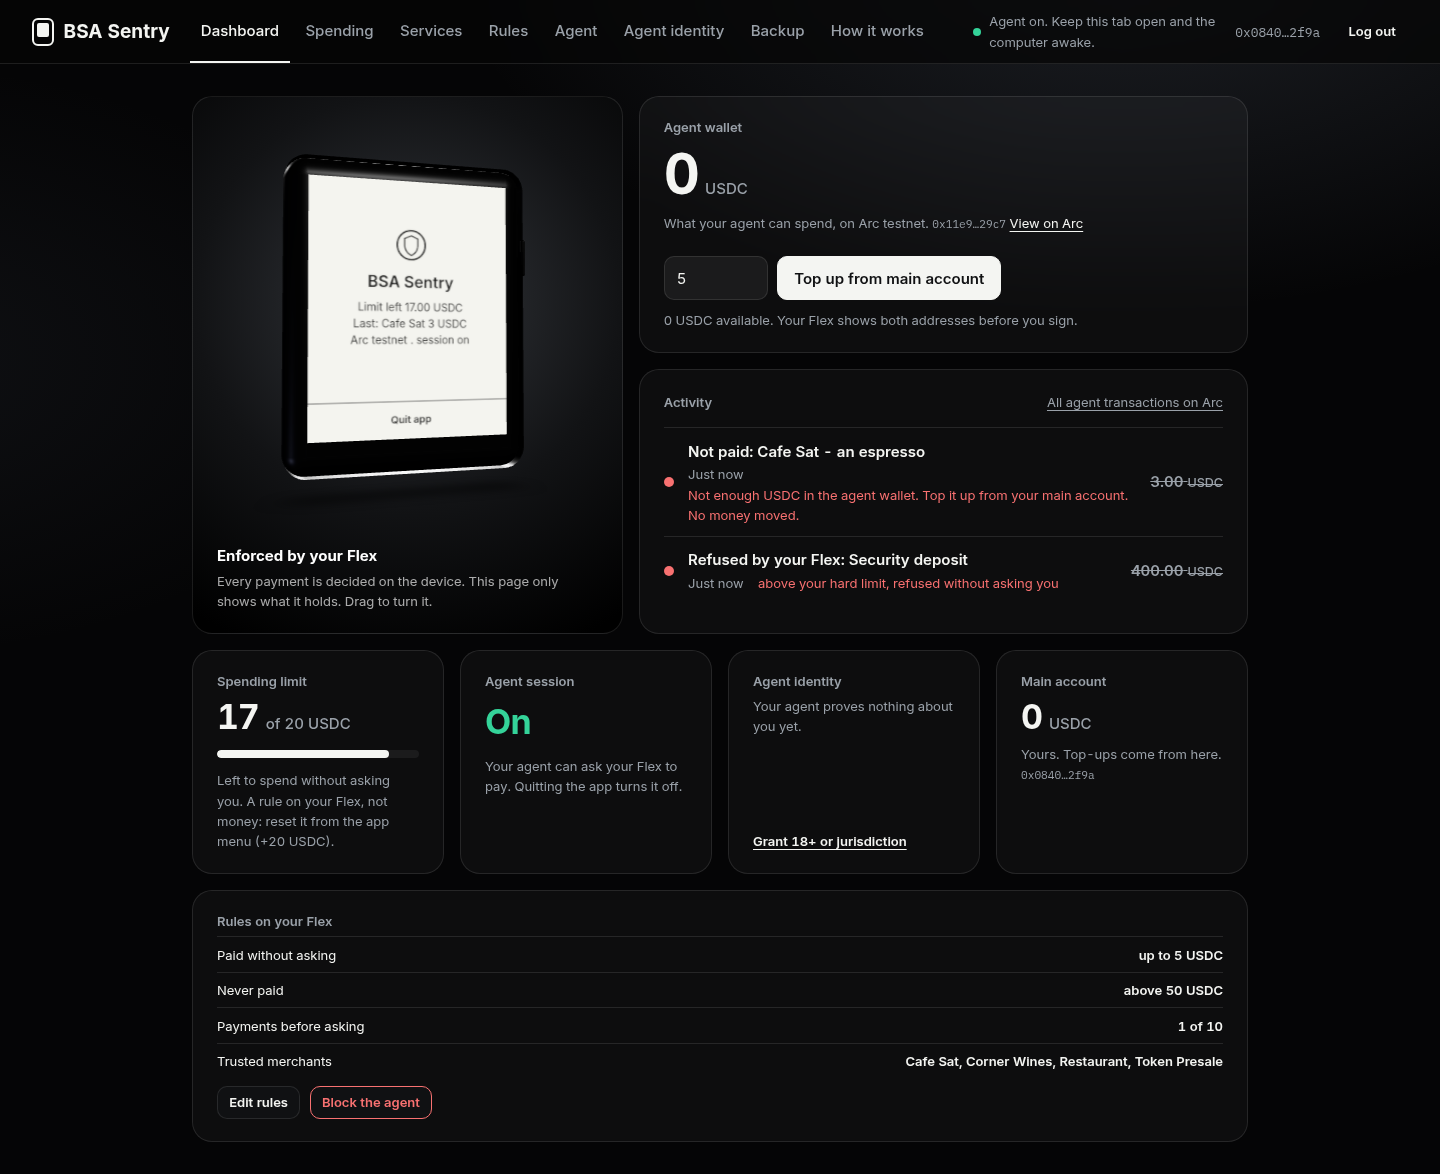
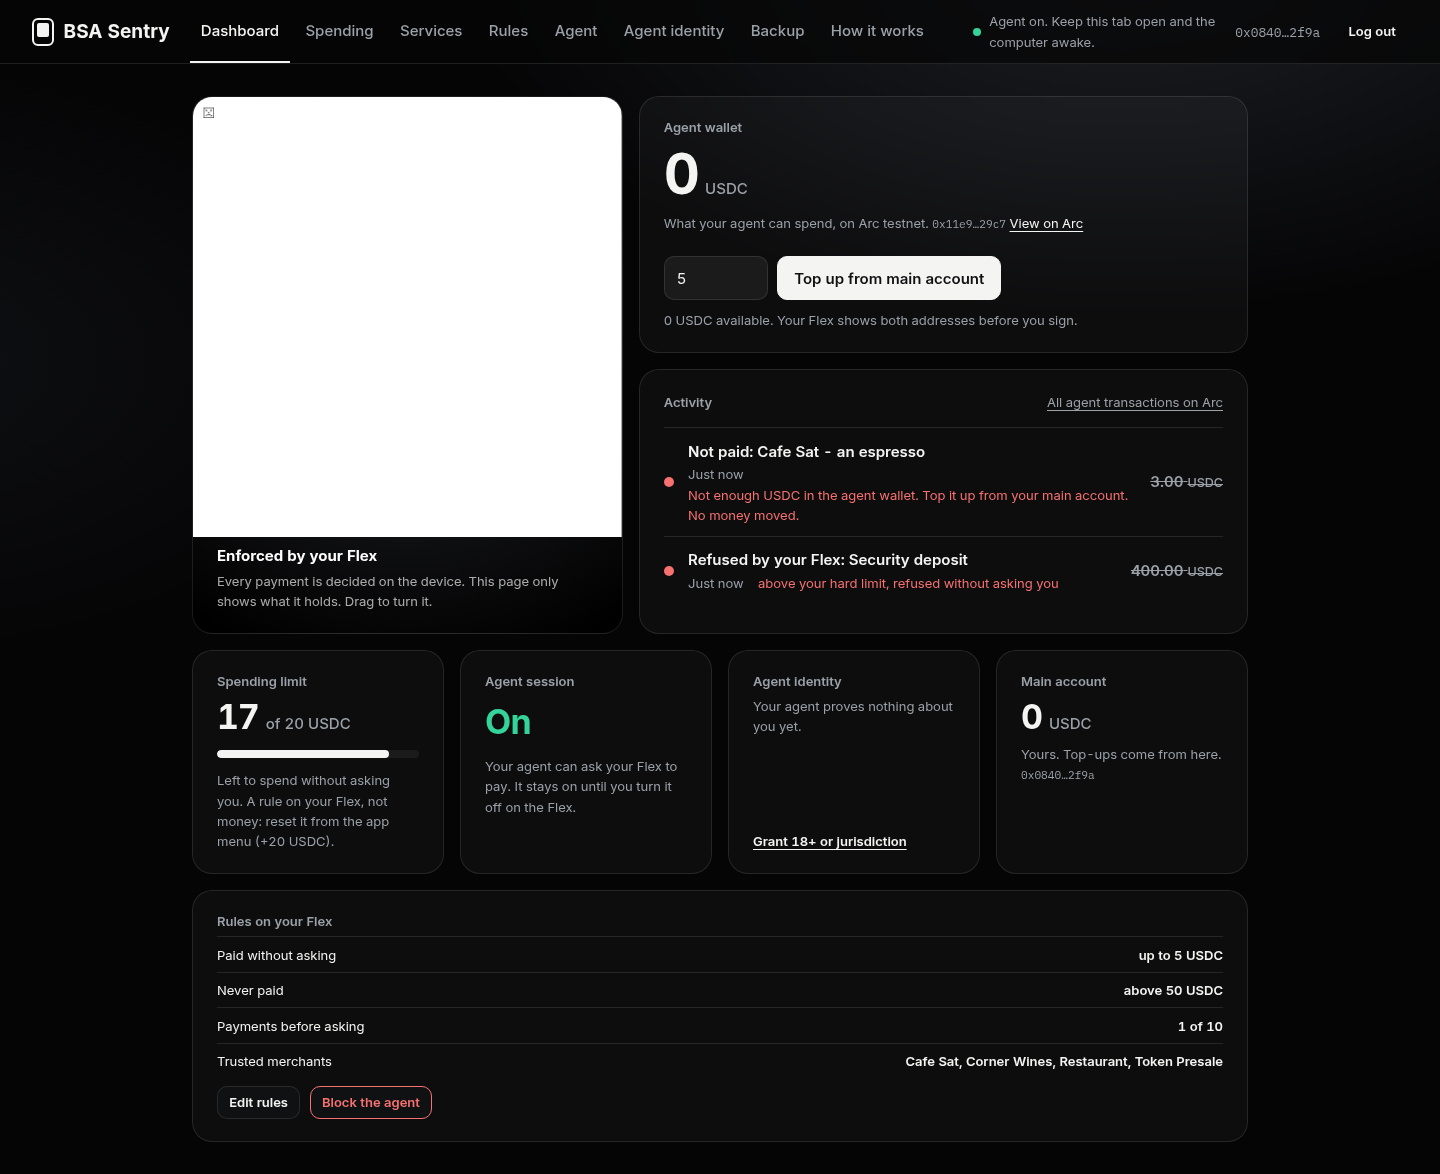
device: the agent session switch is saved on the Flex and stays on until turned off there; blocking the agent turns it off

Changed region(s): [[0.125, 0.0613, 0.4375, 0.46], [0.375, 0.644, 0.4688, 0.6746], [0.3438, 0.6746, 0.375, 0.7053]]

diff --git a/test/speculos/menu.test.ts b/test/speculos/menu.test.ts
@@ -122,7 +122,8 @@ describe('the menu', () => {
     expect(s.policy.active, 'the rules themselves are untouched').toBe(true);
   });
 
-  it('blocks the agent from the device itself: rules and merchants wiped after a confirmation', async () => {
+  it('blocks the agent from the device itself: rules and merchants wiped, session off, after a confirmation', async () => {
+    await setSession(true);
     await openMenuPage(/Block agent/);
     await screenshot('19-menu-actions');
     await tapText(/Block agent/);
@@ -133,19 +134,21 @@ describe('the menu', () => {
     const s = await state();
     expect(s.policy.active).toBe(false);
     expect(s.policy.payees).toEqual([]);
+    expect(s.sessionArmed, 'blocking the agent also ends its session').toBe(false);
     // And payments are refused from now on.
     const data = payPayload({ chainId: 5042002n, token: TOKEN, to: CAFE, value: USDC, nonce: `0x${'73'.repeat(32)}` });
     const r = await apdu(Uint8Array.from([0xe0, INS.PAY, 0, 0, data.length, ...data]));
     expect(r.sw).toBe(SW.DENY);
   });
 
-  it('the agent session switch still arms and disarms, RAM only', async () => {
+  it('the agent session switch arms and disarms from the device', async () => {
     await setSession(true);
     expect((await state()).sessionArmed).toBe(true);
-    // Speculos cannot keep a Rust app's NVM across a restart ("not yet implemented for Rust
-    // apps"), so that the rules survive is checked on the Flex in Phase C, not here.
-    restart(false);
-    expect((await state()).sessionArmed, 'a restart always disarms').toBe(false);
+    await setSession(false);
+    expect((await state()).sessionArmed).toBe(false);
+    // The switch is saved in NVM, so it survives quitting the app. Speculos cannot keep a Rust
+    // app's NVM across a restart ("not yet implemented for Rust apps"), so that part is checked
+    // on the Flex (docs/PHASE_C_GUIDE.md), like the rules surviving a restart.
   });
 });
 

diff --git a/docs/architecture.html b/docs/architecture.html
@@ -233,7 +233,7 @@ td.k{font-weight:600;white-space:nowrap}
 
 <div class="c dev"><h3>Flex app <small>device-app/app, device-app/core</small></h3><dl>
 <dt>Does</dt><dd>Runs <code>decide()</code> on every payment, shows every review, makes every signature.</dd>
-<dt>Holds</dt><dd>0xMAIN and 0xAGENT, never exported. NVM: rules, counters, last payment, credentials. RAM only: the agent session.</dd>
+<dt>Holds</dt><dd>0xMAIN and 0xAGENT, never exported. NVM: rules, counters, last payment, credentials, the agent session switch.</dd>
 <dt>Refuses</dt><dd>Host-supplied hashes (it rebuilds each EIP-712 digest from raw fields), delegations to a foreign agent, bundles its own 0xMAIN did not sign.</dd>
 <dt>Talks to</dt><dd>The website: APDU over WebHID, one command at a time. <code>core</code> is the pure <code>no_std</code> logic, tested on the host.</dd>
 </dl></div>
@@ -437,7 +437,7 @@ td.k{font-weight:600;white-space:nowrap}
 <text class="l" x="650" y="260" text-anchor="start">4 session on, budget left</text>
 </svg></div>
 <ol class="steps">
-<li><b>On the Flex only.</b> Settings, "Agent session" on. No APDU arms it (shipped build). It lives in RAM: a restart, crash or app switch disarms it.</li>
+<li><b>On the Flex only.</b> Settings, "Agent session" on. No APDU arms it (shipped build). It is saved on the device and stays on across app restarts until you turn it off there; blocking the agent turns it off too.</li>
 <li><b>Read back.</b> <code>sentry_status</code> makes the relay ask the tab for a fresh <code>GET_STATE</code>.</li>
 <li><b>Report.</b> The tab sends the session flag and the state blob.</li>
 <li><b>Tell the agent.</b> Session, budget left, limits. Session off: every <code>PAY</code> is <code>NO_SESSION</code>.</li>

diff --git a/apps/web/src/pages/Session.tsx b/apps/web/src/pages/Session.tsx
@@ -5,7 +5,7 @@ export function Session({ bsa }: { bsa: Bsa }) {
   return (
     <section className="card">
       <h2>Start the agent on the Flex</h2>
-      <p>Only the Flex can start the agent: no website and no server can do it for you. Restarting the app stops it.</p>
+      <p>Only the Flex can start the agent: no website and no server can do it for you. It stays on until you turn it off on the Flex, or block the agent.</p>
       <ol className="steps-howto">
         <li>On the BSA Sentry home screen, tap the settings icon at the top right.</li>
         <li>Turn on <b>Agent session</b>.</li>

diff --git a/apps/web/src/pages/Dashboard.tsx b/apps/web/src/pages/Dashboard.tsx
@@ -148,7 +148,7 @@ export function Dashboard({ bsa }: { bsa: Bsa }) {
           <h2>Agent session</h2>
           <div className="session-state">{armed ? 'On' : 'Off'}</div>
           <p className="sub">{armed
-            ? 'Your agent can ask your Flex to pay. Quitting the app turns it off.'
+            ? 'Your agent can ask your Flex to pay. It stays on until you turn it off on the Flex.'
             : 'Turn it on from your Flex: gear icon, then Agent session. Only the device can do it.'}</p>
         </section>
 

diff --git a/device-app/app/src/store.rs b/device-app/app/src/store.rs
@@ -1,5 +1,5 @@
-//! Device state: the policy and credentials in NVM, the session and the in-flight payment
-//! in RAM.
+//! Device state: the policy, credentials and agent session switch in NVM, the in-flight
+//! payment in RAM.
 //!
 //! All buffers are fixed-size zero-initialised statics: Ledger's link script requires an
 //! empty `.data` section, so no `Vec` and no non-zero static initialiser.
@@ -33,6 +33,11 @@ static mut COUNTERS_NVM: NVMData<AtomicStorage<[u8; 2 + 8 + 2 + 8 + 1 + MAX_LABE
 static mut CREDENTIALS_NVM: NVMData<AtomicStorage<[u8; CREDENTIALS_MAX + 2]>> =
     NVMData::new(AtomicStorage::new(&[0u8; CREDENTIALS_MAX + 2]));
 
+/// The agent session switch: 1 = on. Only the device menu turns it on (no APDU can), and it
+/// stays on across app restarts until the menu or the kill switch turns it off.
+#[link_section = ".nvm_data"]
+static mut SESSION_NVM: NVMData<AtomicStorage<[u8; 1]>> = NVMData::new(AtomicStorage::new(&[0u8; 1]));
+
 /// Reassembly buffer for the chunked commands. One at a time, by design.
 static mut REASSEMBLER: Reassembler = Reassembler::new();
 
@@ -47,16 +52,17 @@ impl Runtime {
     }
 }
 
-/// The agent session: armed from the device menu, never stored. A restart, a crash or an
-/// app switch always disarms the agent, because RAM does not survive any of them.
-static mut SESSION_ARMED: bool = false;
-
 pub fn session() -> Session {
-    Session { armed: unsafe { SESSION_ARMED } }
+    let cell = &raw const SESSION_NVM;
+    Session { armed: unsafe { (*cell).get_ref() }.get_ref()[0] == 1 }
 }
 
 pub fn set_session(armed: bool) {
-    unsafe { SESSION_ARMED = armed };
+    if session().armed == armed {
+        return;
+    }
+    let cell = &raw mut SESSION_NVM;
+    unsafe { (*cell).get_mut() }.update(&[armed as u8]);
 }
 
 pub fn reassembler() -> &'static mut Reassembler {
@@ -89,10 +95,11 @@ pub fn save_policy(p: &Policy) -> Result<(), ()> {
     Ok(())
 }
 
-/// Clears the policy and the counters. The kill switch, and what SET_POLICY starts from.
+/// The kill switch: clears the policy and the counters, and ends the agent session.
 pub fn clear_policy() {
     let _ = save_policy(&Policy::empty());
     save_counters(&Counters::default(), 0, &[]);
+    set_session(false);
 }
 
 // ----------------------------------------------------------------------- counters

diff --git a/docs/PHASE_C_GUIDE.md b/docs/PHASE_C_GUIDE.md
@@ -32,7 +32,7 @@ twice). Phase C proves the same on the real Flex, in Chrome, with claude.ai.
 | **You see** | Rules review (swipe, hold) like `docs/screens/speculos/` reviews; the coffee is signed with **nothing on screen**; confirmation screens like `05-orange-unknown-payee.png` and `06-orange-over-auto-max.png`. |
 | **Claude checks** | All 8 checks PASS: the signature recovers to your 0xAGENT, counters move, "Pay once" adds no payee, "Trust merchant" does, 400 USDC is OVER_HARD_MAX. |
 | **The 60 s test, done right** | While the confirmation screen counts down, **keep touching the screen** (not the buttons). It must still refuse at ~60 s: our timeout counts raw ticker events, which a finger cannot pause (the NBGL ticker can — DX_NOTES §2.2). |
-| **Restart + menu** | **Quit app**, reopen BSA Sentry. The home must still show the budget (the rules survive in NVM — Speculos cannot test this, DX_NOTES §4.3) and **session off**. Tap the gear and swipe: session switch · rules · trusted merchants · **+20 USDC** / **Bloquer l'agent**. Remove a merchant once (the confirm shows its full address). |
+| **Restart + menu** | **Quit app**, reopen BSA Sentry. The home must still show the budget (the rules survive in NVM — Speculos cannot test this, DX_NOTES §4.3) and the **session as you left it** (the switch is saved in NVM since Oct 13). Tap the gear and swipe: session switch · rules · trusted merchants · **+20 USDC** / **Bloquer l'agent**. Remove a merchant once (the confirm shows its full address). |
 | **Photos** | One photo per distinct screen into `docs/screens/` (home, menu, rules review, confirmation for an unknown merchant, confirmation over the limit). For the submission. |
 | **Fallback** | `0x5515`: auto-lock (step 1). `0x6d02`: the app is not open. |
 

diff --git a/docs/DX_NOTES.md b/docs/DX_NOTES.md
@@ -142,7 +142,7 @@ blocking, retry" rather than the generic `CmdNotAccepted`.
 the agent. `NbglHomeAndSettings::settings()` drives switches straight from an NVM slot, and there is
 no hook to observe a toggle.
 **Fix.** First, zero the slot at every app start. In the end we dropped the wrapper (§2.7) and
-keep the session in a RAM static toggled by our own callback.
+keep the session in a RAM static toggled by our own callback. (Oct 13: after using it daily we moved the switch back to NVM, so it survives quitting the app; our own callback still drives it.)
 **Suggestion.** Let `settings()` take an in-memory backing store, and expose an
 `on_setting_changed(token, value)` callback. Right now a setting can only be a persisted boolean,
 which rules out anything session-scoped.

diff --git a/CLAUDE.md b/CLAUDE.md
@@ -179,7 +179,7 @@ Commands: `pnpm test` · `pnpm test:speculos` · `pnpm e2e` (Speculos + harness 
 ```
 Policy { active, chain_id: u64, token: [u8;20], auto_max: u64, hard_max: u64, budget: u64,
          max_count: u16, payees: [{ addr: [u8;20], label: ≤16 chars }; ≤8] }   // 6-dp base units
-Counters { spent: u64, count: u16 }    Session { armed: bool }   // RAM only, armed from device menu
+Counters { spent: u64, count: u16 }    Session { armed: bool }   // NVM since Oct 13 (the human's decision), armed only from the device menu, off on kill switch
 
 decide(policy, counters, session, payment{chain_id, token, to, value}) -> Decision
   1. no active policy                                      -> Refuse(NO_POLICY)

diff --git a/docs/DEMO.md b/docs/DEMO.md
@@ -58,7 +58,7 @@ Timing: 1 and 3 take ~5 s each end to end; 2 and 4 wait for your tap; 5 is insta
    to 20/20 **and removes the bakery** from the trusted merchants (the list is replaced).
 4. The 18+ badge survives a rules change (it is stored separately). To demo it from scratch, reinstall
    the app (`make load`) or restore without credentials.
-5. Re-arm the agent session on the Flex (setting rules does not, a restart always disarms).
+5. Turn the agent session on, on the Flex, if it is off. It stays on until you turn it off; "Block the agent" and a reinstall turn it off.
 6. Dashboard: reload to clear the feed.
 
 On Speculos: `E2E=1 pnpm e2e` does all of this itself (wiped Flex, recycle, fund) before each run.

diff --git a/docs/ARCHITECTURE.md b/docs/ARCHITECTURE.md
@@ -75,7 +75,7 @@ Policy { active, chain_id: u64, token: [u8;20], auto_max: u64, hard_max: u64, bu
          max_count: u16, payees: [{ addr: [u8;20], label: ≤16 chars }; ≤8] }
          // amounts in USDC base units (6 dp)
 Counters { spent: u64, count: u16 }
-Session  { armed: bool }    // RAM only, armed from the device menu
+Session  { armed: bool }    // NVM, turned on only from the device menu; off from the menu or the kill switch
 
 decide(policy, counters, session, payment{chain_id, token, to, value}) -> Decision
   1. no active policy                                     -> Refuse(NO_POLICY)
